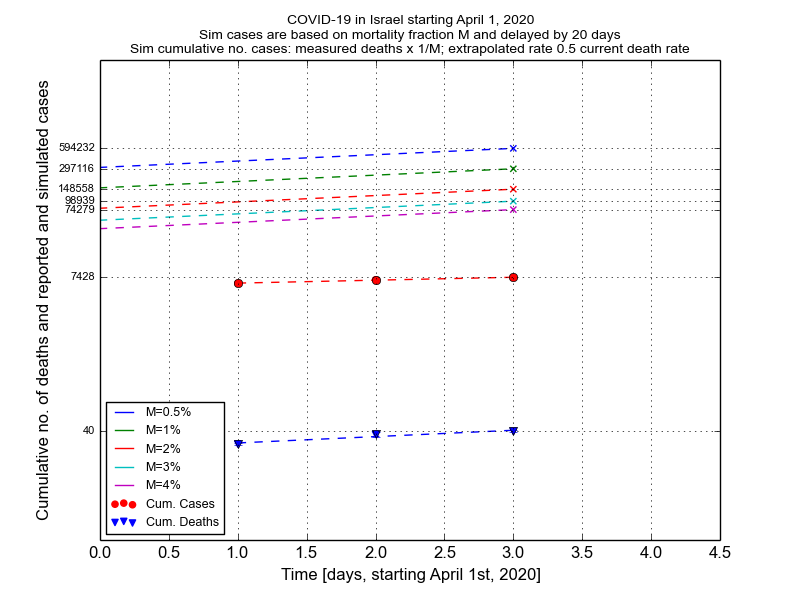
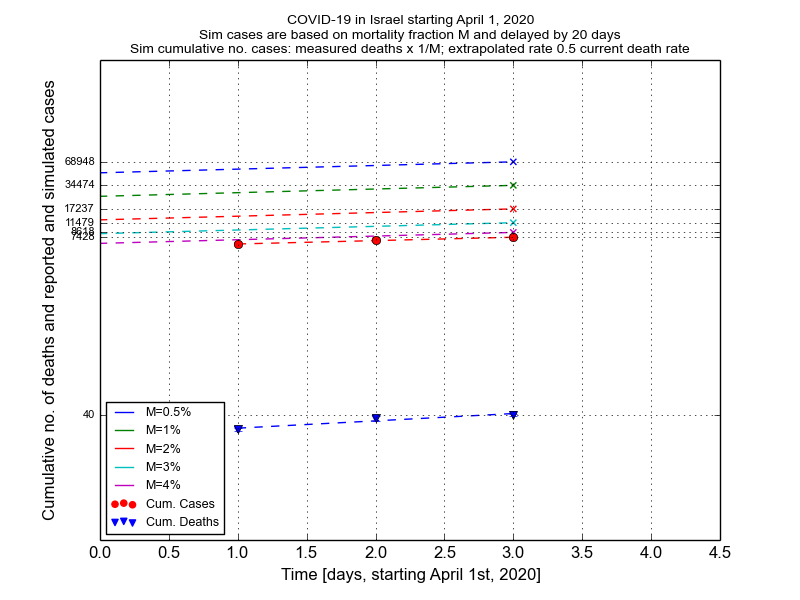
readjust the estimation for real cases

diff --git a/cov_model/cov_lin_wrapper.py b/cov_model/cov_lin_wrapper.py
@@ -361,8 +361,12 @@ def make_simulations_plot(variable_pack, country,
     # correction: 20 days is probably more realistic
     if slowdown_deaths is not None:
         slope_sim = slope_d_s  # / 2.0 when rates halfen roughly
+        if slope_sim > 0.2:
+            slope_sim = slope_sim / 2.0
     else:
         slope_sim = slope_d  # / 2.0 when rates halfen roughly
+        if slope_sim > 0.2:
+            slope_sim = slope_sim / 2.0
     sim_y_0_f = sim_y_0_real[-1] * np.exp(20. * slope_sim)
     sim_y_1_f = sim_y_1_real[-1] * np.exp(20. * slope_sim)
     sim_y_2_f = sim_y_2_real[-1] * np.exp(20. * slope_sim)
